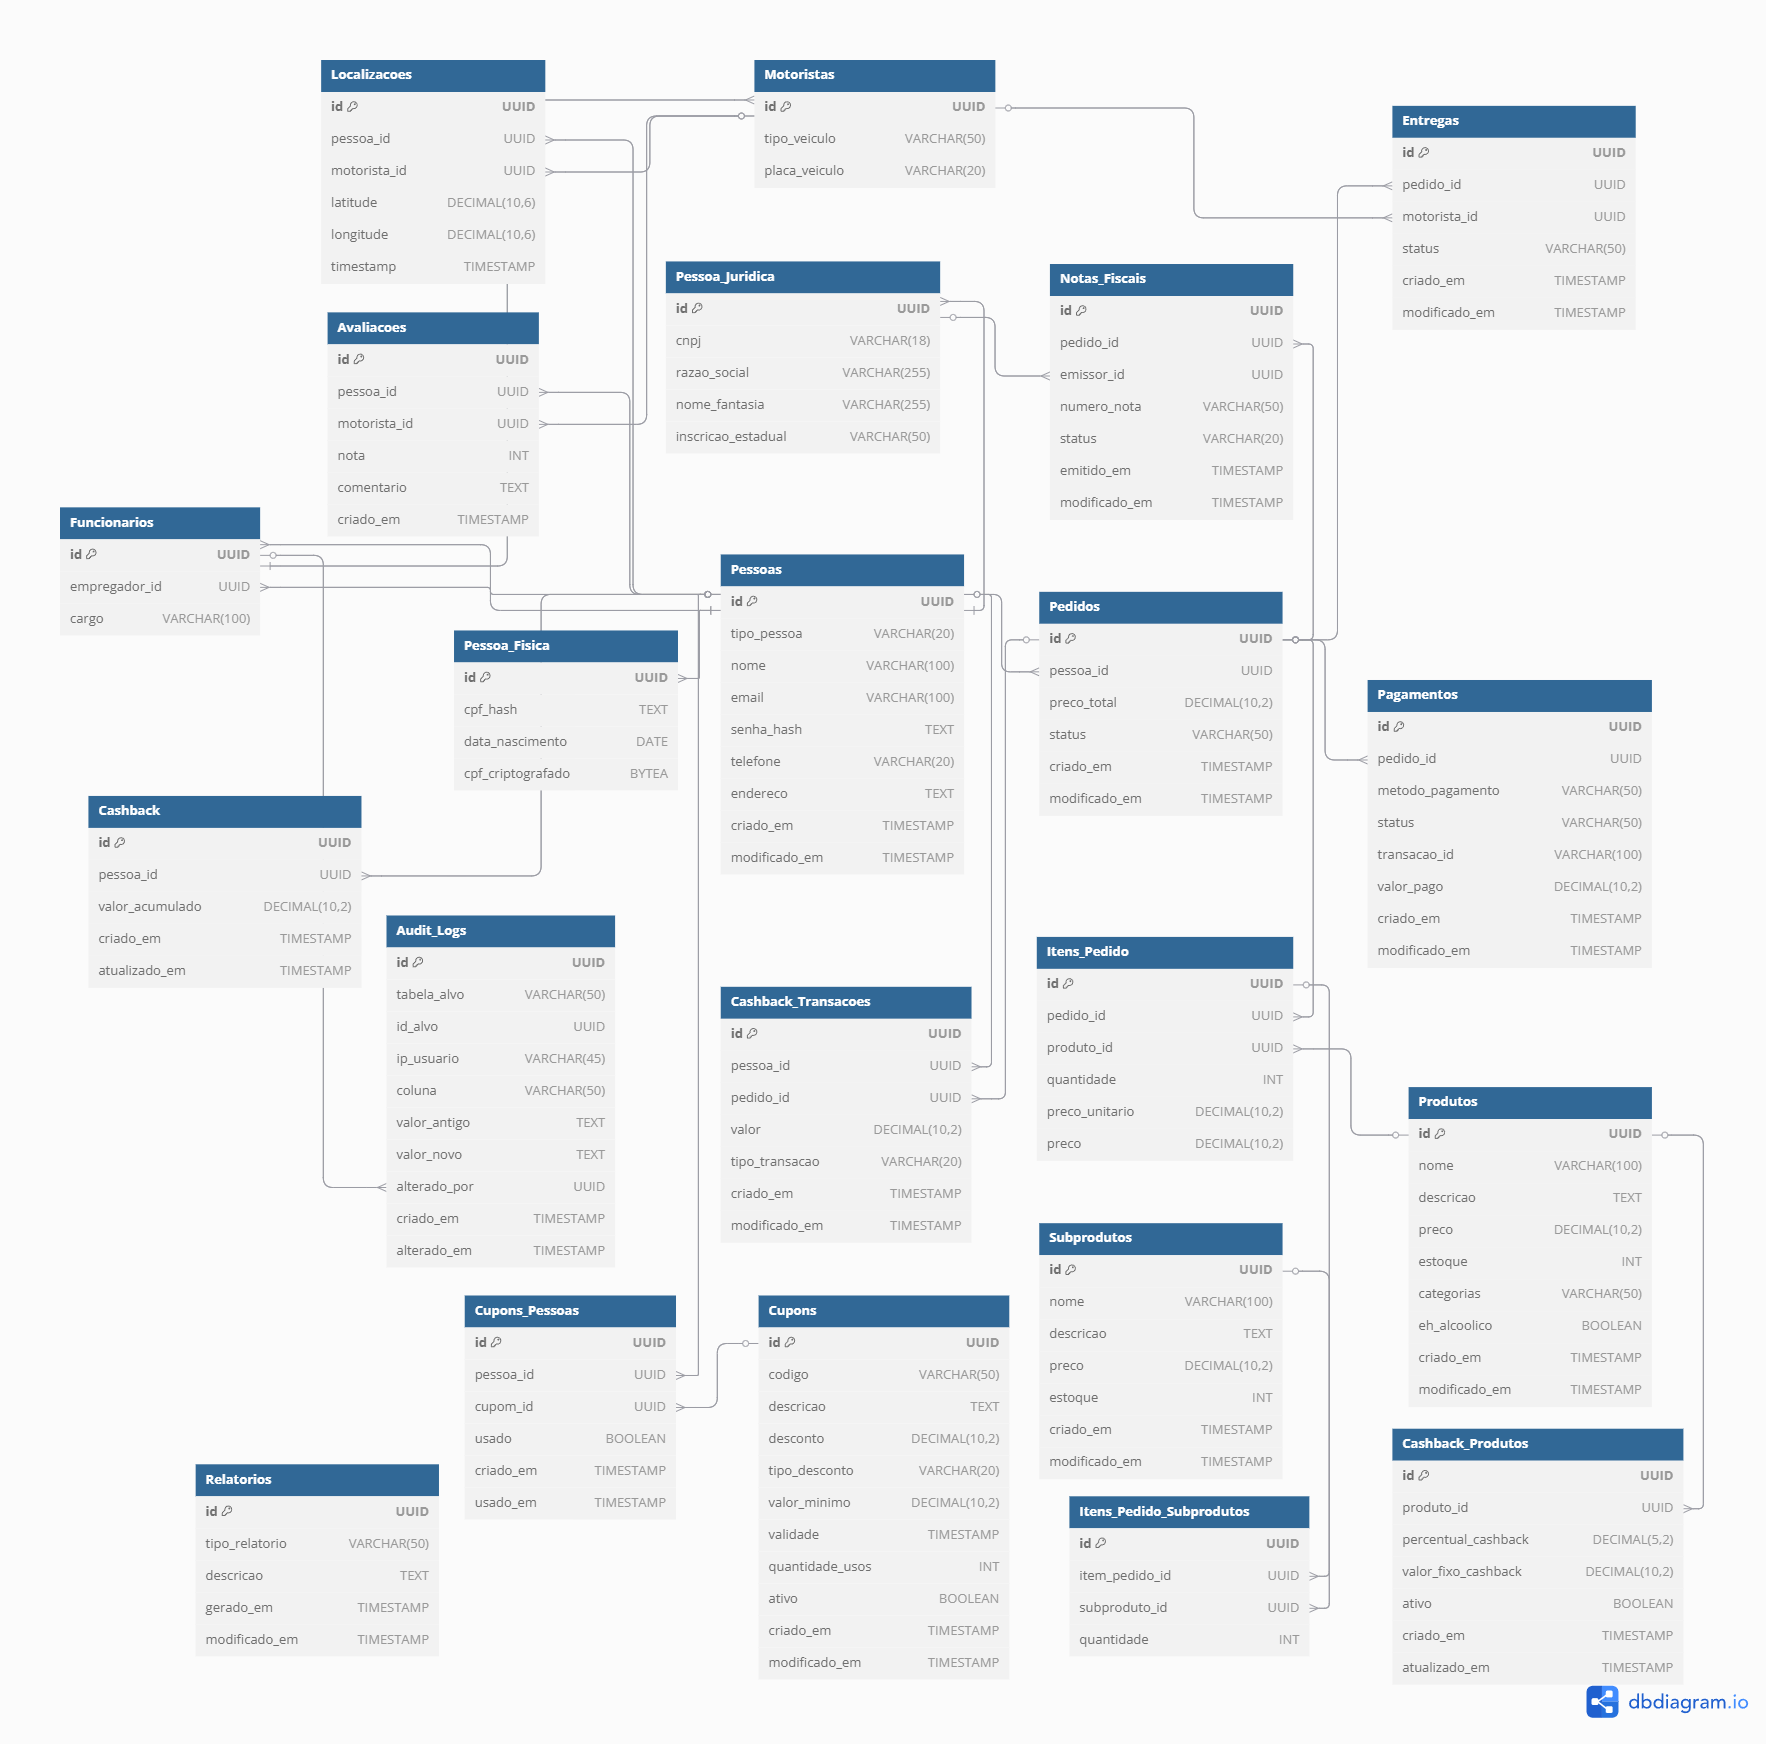
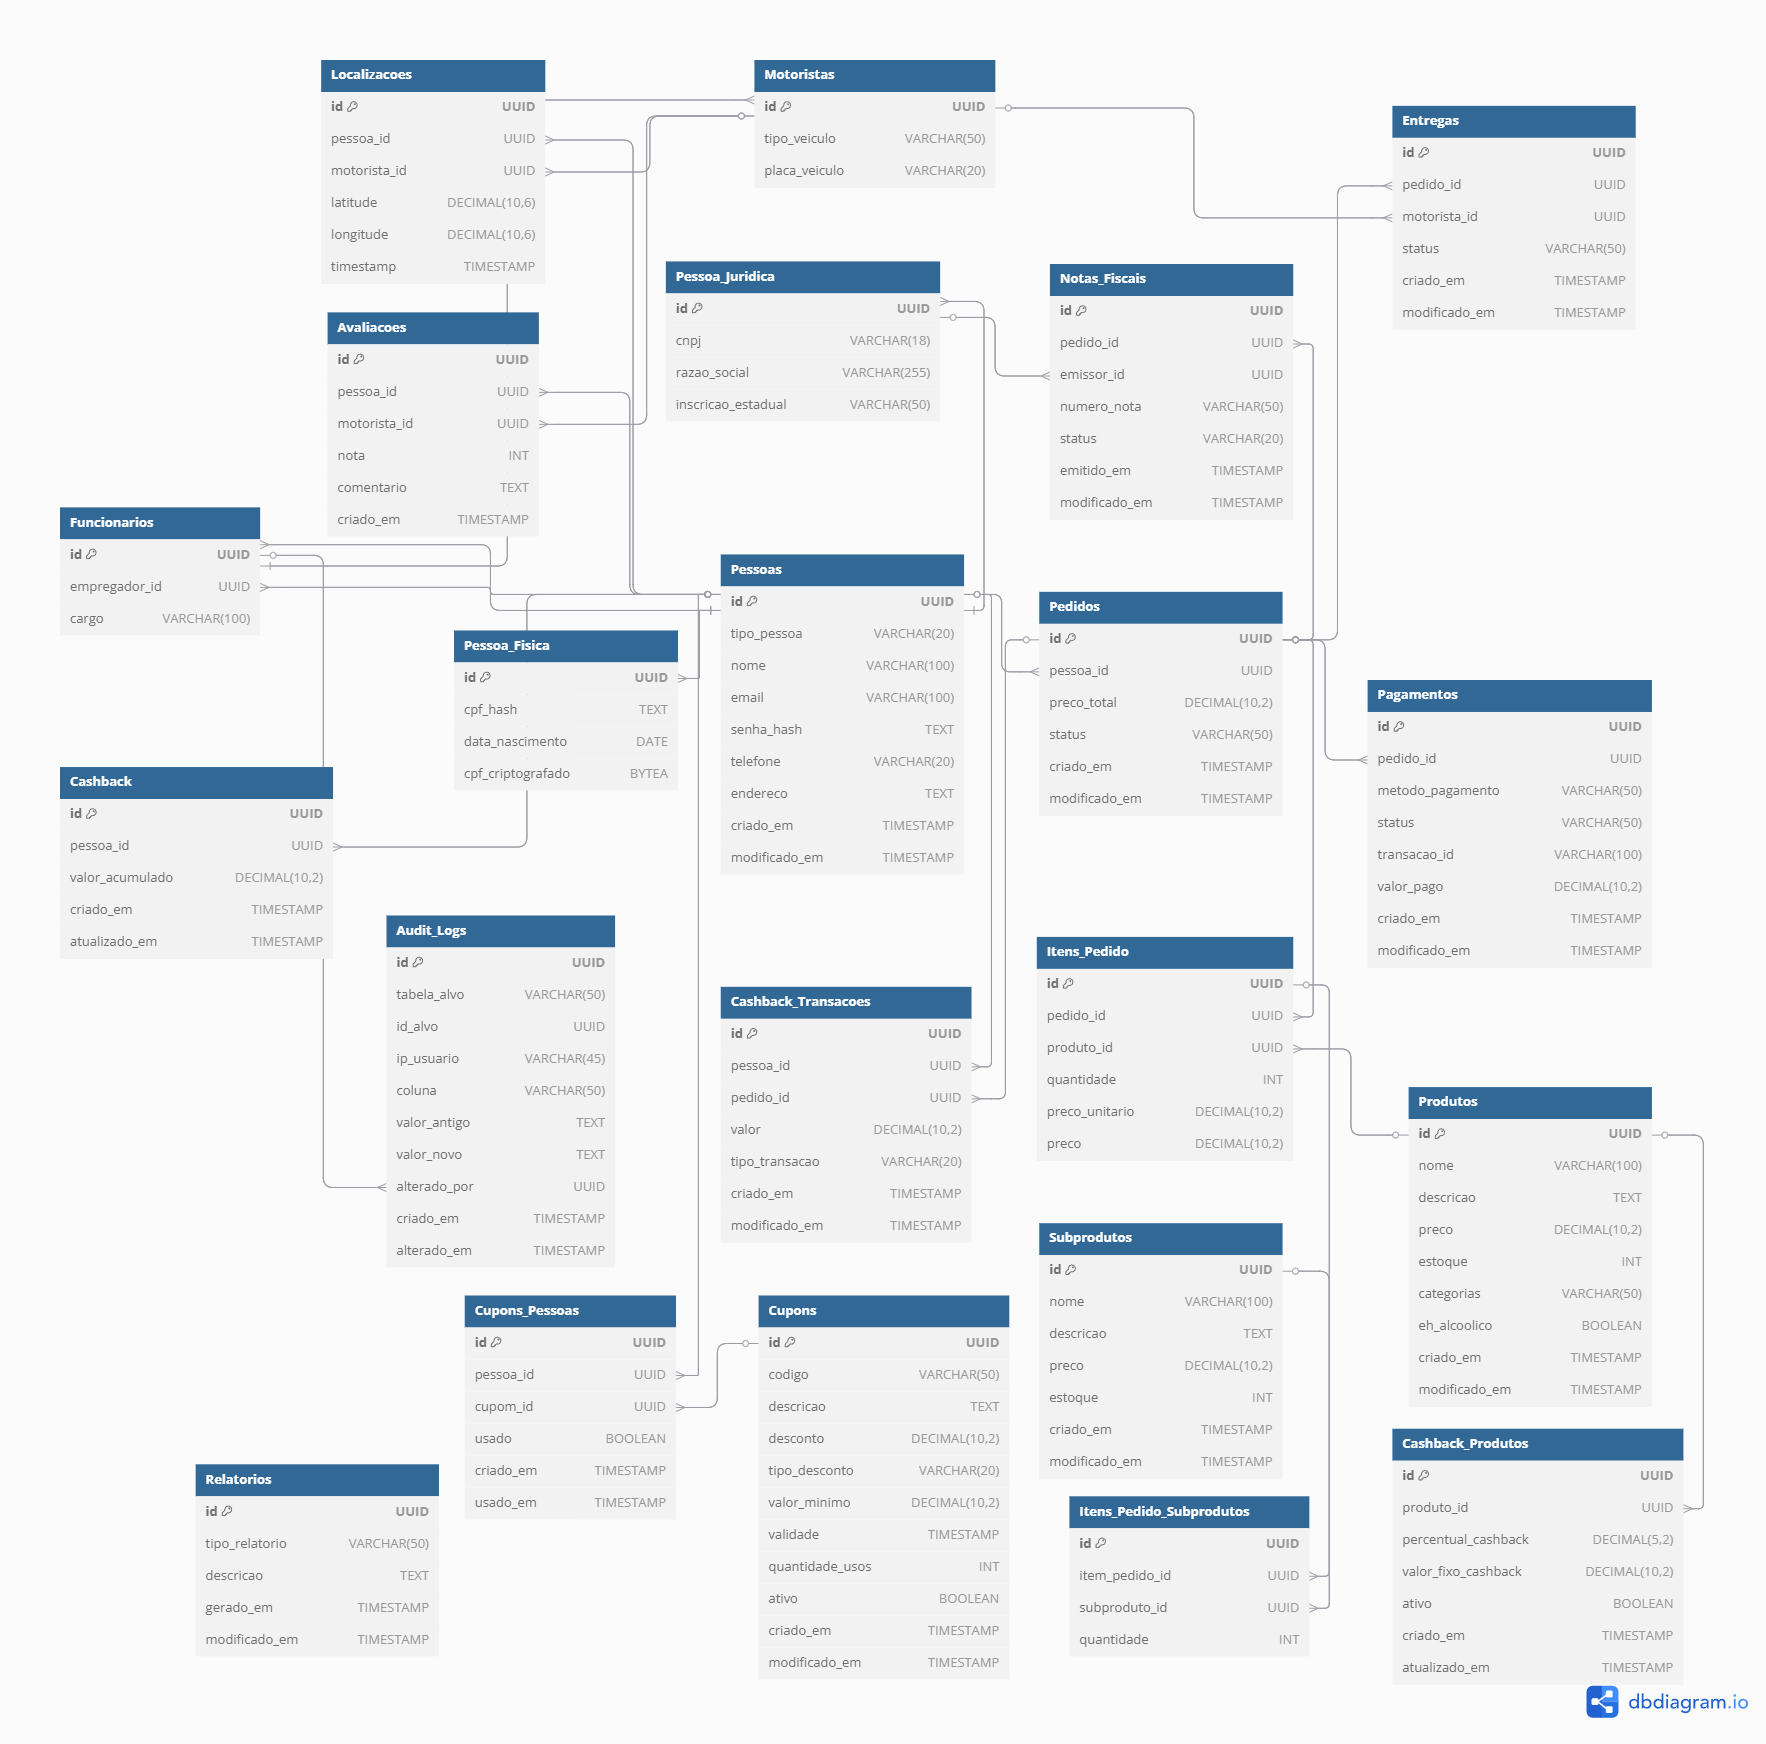
iniciando os testes

Changed region(s): [[0.0311, 0.4335, 0.218, 0.5573]]

diff --git a/backend/src/controllers/pessoaFisicaController.js b/backend/src/controllers/pessoaFisicaController.js
@@ -6,22 +6,19 @@ exports.create = async (req, res) => {
     try {
         console.log("Recebendo requisição para criar Pessoa Física:", req.body);
 
-        const { nome, email, senha_hash, telefone, endereco, cpf, data_nascimento } = req.body;
+        const { nome, email, senha_hash, telefone, endereco, cpf_hash, data_nascimento } = req.body;
 
-        if (!nome || !email || !senha_hash || !telefone || !endereco || !cpf || !data_nascimento) {
+        if (!nome || !email || !senha_hash || !telefone || !endereco || !cpf_hash || !data_nascimento) {
             return res.status(400).json({ error: 'Todos os campos são obrigatórios' });
         }
 
-        // Verificar se já existe uma pessoa com mesmo e-mail, telefone ou CPF
+        // Verificar se já existe uma pessoa com mesmo e-mail ou telefone
         const pessoaExistente = await Pessoa.findOne({ where: { [Op.or]: [{ email }, { telefone }] } });
         if (pessoaExistente) return res.status(400).json({ error: 'E-mail ou telefone já cadastrado' });
 
-        const cpfExistente = await PessoaFisica.findOne({ where: { cpf } });
-        if (cpfExistente) return res.status(400).json({ error: 'CPF já cadastrado' });
-
         // Criar Pessoa e Pessoa Física
         const pessoa = await Pessoa.create({ nome, email, senha_hash, telefone, endereco, tipo_pessoa: 'fisica' });
-        const pessoaFisica = await PessoaFisica.create({ id: pessoa.id, cpf, data_nascimento });
+        const pessoaFisica = await PessoaFisica.create({ id: pessoa.id, cpf_hash, data_nascimento });
 
         res.status(201).json({ ...pessoa.toJSON(), ...pessoaFisica.toJSON() });
     } catch (error) {
@@ -33,7 +30,7 @@ exports.create = async (req, res) => {
 // 🔹 Buscar Pessoas Físicas com Filtros Dinâmicos
 exports.getAll = async (req, res) => {
     try {
-        const { nome, email, telefone, cpf, data_nascimento, limite, ordenacao } = req.query;
+        const { nome, email, telefone, cpf_hash, data_nascimento, limite, ordenacao } = req.query;
 
         let wherePessoa = {};
         let wherePessoaFisica = {};
@@ -41,7 +38,7 @@ exports.getAll = async (req, res) => {
         if (nome) wherePessoa.nome = { [Op.iLike]: `%${nome}%` };
         if (email) wherePessoa.email = { [Op.iLike]: `%${email}%` };
         if (telefone) wherePessoa.telefone = telefone;
-        if (cpf) wherePessoaFisica.cpf = cpf;
+        if (cpf_hash) wherePessoaFisica.cpf = cpf_hash;
         if (data_nascimento) wherePessoaFisica.data_nascimento = data_nascimento;
 
         const pessoasFisicas = await PessoaFisica.findAll({
@@ -51,7 +48,7 @@ exports.getAll = async (req, res) => {
                 as: 'pessoa',
                 where: wherePessoa
             },
-            order: [['criado_em', ordenacao === 'asc' ? 'ASC' : 'DESC']],
+            order: [['id', ordenacao === 'asc' ? 'ASC' : 'DESC']],
             limit: limite ? parseInt(limite) : null
         });
 
@@ -88,7 +85,7 @@ exports.getById = async (req, res) => {
 exports.update = async (req, res) => {
     try {
         const { id } = req.params;
-        const { nome, email, senha_hash, telefone, endereco, cpf, data_nascimento } = req.body;
+        const { nome, email, senha_hash, telefone, endereco, cpf_hash, data_nascimento } = req.body;
 
         if (!id.match(/^[0-9a-fA-F-]{36}$/)) {
             return res.status(400).json({ error: 'ID inválido' });
@@ -99,7 +96,7 @@ exports.update = async (req, res) => {
             return res.status(404).json({ error: 'Pessoa Física não encontrada' });
         }
 
-        // Verificar se o novo e-mail, telefone ou CPF já pertence a outra pessoa
+        // Verificar se o novo e-mail ou telefone já pertence a outra pessoa
         if (email || telefone) {
             const pessoaExistente = await Pessoa.findOne({
                 where: {
@@ -111,20 +108,9 @@ exports.update = async (req, res) => {
             if (pessoaExistente) return res.status(400).json({ error: 'E-mail ou telefone já está em uso por outra pessoa' });
         }
 
-        if (cpf) {
-            const cpfExistente = await PessoaFisica.findOne({
-                where: {
-                    cpf,
-                    id: { [Op.ne]: id }
-                }
-            });
-
-            if (cpfExistente) return res.status(400).json({ error: 'CPF já está em uso por outra pessoa' });
-        }
-
         // Atualizar os dados
         await pessoaFisica.pessoa.update({ nome, email, senha_hash, telefone, endereco });
-        await pessoaFisica.update({ cpf, data_nascimento });
+        await pessoaFisica.update({ cpf_hash, data_nascimento });
 
         res.json({ ...pessoaFisica.pessoa.toJSON(), ...pessoaFisica.toJSON() });
     } catch (error) {

diff --git a/backend/src/controllers/pessoaJuridicaController.js b/backend/src/controllers/pessoaJuridicaController.js
@@ -6,7 +6,7 @@ exports.create = async (req, res) => {
     try {
         console.log("Recebendo requisição para criar Pessoa Jurídica:", req.body);
 
-        const { nome, email, senha_hash, telefone, endereco, cnpj, razao_social, nome_fantasia, inscricao_estadual, eh_empresa } = req.body;
+        const { nome, email, senha_hash, telefone, endereco, cnpj, razao_social, inscricao_estadual } = req.body;
 
         if (!nome || !email || !senha_hash || !telefone || !endereco || !cnpj || !razao_social) {
             return res.status(400).json({ error: 'Nome, e-mail, senha, telefone, endereço, CNPJ e razão social são obrigatórios' });
@@ -21,7 +21,7 @@ exports.create = async (req, res) => {
 
         // Criar Pessoa e Pessoa Jurídica
         const pessoa = await Pessoa.create({ nome, email, senha_hash, telefone, endereco, tipo_pessoa: 'juridica' });
-        const pessoaJuridica = await PessoaJuridica.create({ id: pessoa.id, cnpj, razao_social, nome_fantasia, inscricao_estadual, eh_empresa });
+        const pessoaJuridica = await PessoaJuridica.create({ id: pessoa.id, cnpj, razao_social, inscricao_estadual });
 
         res.status(201).json({ ...pessoa.toJSON(), ...pessoaJuridica.toJSON() });
     } catch (error) {
@@ -43,7 +43,6 @@ exports.getAll = async (req, res) => {
         if (telefone) wherePessoa.telefone = telefone;
         if (cnpj) wherePessoaJuridica.cnpj = cnpj;
         if (razao_social) wherePessoaJuridica.razao_social = { [Op.iLike]: `%${razao_social}%` };
-        if (nome_fantasia) wherePessoaJuridica.nome_fantasia = { [Op.iLike]: `%${nome_fantasia}%` };
 
         const pessoasJuridicas = await PessoaJuridica.findAll({
             where: wherePessoaJuridica,
@@ -52,7 +51,7 @@ exports.getAll = async (req, res) => {
                 as: 'pessoa',
                 where: wherePessoa
             },
-            order: [['criado_em', ordenacao === 'asc' ? 'ASC' : 'DESC']],
+            order: [['id', ordenacao === 'asc' ? 'ASC' : 'DESC']],
             limit: limite ? parseInt(limite) : null
         });
 
@@ -89,7 +88,7 @@ exports.getById = async (req, res) => {
 exports.update = async (req, res) => {
     try {
         const { id } = req.params;
-        const { nome, email, senha_hash, telefone, endereco, cnpj, razao_social, nome_fantasia, inscricao_estadual, eh_empresa } = req.body;
+        const { nome, email, senha_hash, telefone, endereco, cnpj, razao_social, inscricao_estadual } = req.body;
 
         if (!id.match(/^[0-9a-fA-F-]{36}$/)) {
             return res.status(400).json({ error: 'ID inválido' });
@@ -126,7 +125,7 @@ exports.update = async (req, res) => {
 
         // Atualizar os dados
         await pessoaJuridica.pessoa.update({ nome, email, senha_hash, telefone, endereco });
-        await pessoaJuridica.update({ cnpj, razao_social, nome_fantasia, inscricao_estadual, eh_empresa });
+        await pessoaJuridica.update({ cnpj, razao_social, inscricao_estadual });
 
         res.json({ ...pessoaJuridica.pessoa.toJSON(), ...pessoaJuridica.toJSON() });
     } catch (error) {

diff --git a/backend/src/controllers/funcionarioController.js b/backend/src/controllers/funcionarioController.js
@@ -6,14 +6,14 @@ exports.createFuncionario = async (req, res) => {
     try {
         console.log("Recebendo requisição para criar funcionário:", req.body);
 
-        const { pessoa_id, empregador_id, cargo } = req.body;
+        const { id, empregador_id, cargo } = req.body;
 
-        if (!pessoa_id || !empregador_id || !cargo) {
+        if (!id || !empregador_id || !cargo) {
             return res.status(400).json({ error: 'Todos os campos são obrigatórios' });
         }
 
         // Verificar se a pessoa física existe
-        const pessoaFisica = await PessoaFisica.findByPk(pessoa_id);
+        const pessoaFisica = await PessoaFisica.findByPk(id);
         if (!pessoaFisica) {
             return res.status(404).json({ error: 'Pessoa Física não encontrada' });
         }
@@ -24,7 +24,7 @@ exports.createFuncionario = async (req, res) => {
             return res.status(404).json({ error: 'Empregador não encontrado' });
         }
 
-        const novoFuncionario = await Funcionario.create({ id: pessoa_id, empregador_id, cargo });
+        const novoFuncionario = await Funcionario.create({ id: id, empregador_id, cargo });
 
         return res.status(201).json(novoFuncionario);
     } catch (error) {

diff --git a/backend/src/models/funcionario.js b/backend/src/models/funcionario.js
@@ -9,6 +9,11 @@ class Funcionario extends Model {
           primaryKey: true,
           references: { model: 'pessoaFisica', key: 'id' }
         },
+        empregador_id: {
+          type: DataTypes.UUID,
+          allowNull: false,
+          references: { model: 'pessoa', key: 'id' }
+        },
         cargo: {
           type: DataTypes.STRING,
           allowNull: false
@@ -18,11 +23,13 @@ class Funcionario extends Model {
         sequelize,
         modelName: 'Funcionario',
         tableName: 'funcionarios',
+        timestamps: false
       }
     );
   }
 
   static associate(models) {
+    this.belongsTo(models.PessoaFisica, { foreignKey: 'id', as: 'pessoaFisica' }),
     this.belongsTo(models.Pessoa, { foreignKey: 'empregador_id', as: 'empregador' });
   }
 }

diff --git a/backend/src/models/pessoaFisica.js b/backend/src/models/pessoaFisica.js
@@ -9,10 +9,9 @@ class PessoaFisica extends Model {
           primaryKey: true,
           references: {model: 'pessoa', key: 'id'}
         },
-        cpf: {
+        cpf_hash: {
           type: DataTypes.STRING,
-          allowNull: false,
-          unique: true
+          allowNull: false
         },
         data_nascimento: {
           type: DataTypes.DATEONLY,
@@ -22,7 +21,8 @@ class PessoaFisica extends Model {
       {
         sequelize,
         modelName: 'PessoaFisica',
-        tableName: 'pessoa_fisica'
+        tableName: 'pessoa_fisica',
+        timestamps: false
       }
     );
   }

diff --git a/backend/src/models/pessoaJuridica.js b/backend/src/models/pessoaJuridica.js
@@ -18,9 +18,6 @@ class PessoaJuridica extends Model {
           type: DataTypes.STRING,
           allowNull: false
         },
-        nome_fantasia: {
-          type: DataTypes.STRING
-        },
         inscricao_estadual: {
           type: DataTypes.STRING
         },
@@ -28,7 +25,8 @@ class PessoaJuridica extends Model {
       {
         sequelize,
         modelName: 'PessoaJuridica',
-        tableName: 'pessoa_juridica'
+        tableName: 'pessoa_juridica',
+        timestamps: false
       }
     );
   }

diff --git a/backend/src/app.js b/backend/src/app.js
@@ -41,8 +41,8 @@ app.use('/motoristas', motoristaRoutes);
 app.use('/notas-fiscais', notaFiscalRoutes);
 app.use('/pagamentos', pagamentoRoutes);
 app.use('/pessoas', pessoaRoutes);
-app.use('/pessoas/fisica', pessoaFisicaRoutes);
-app.use('/pessoas/juridica', pessoaJuridicaRoutes);
+app.use('/pessoas-fisica', pessoaFisicaRoutes);
+app.use('/pessoas-juridica', pessoaJuridicaRoutes);
 app.use('/pedidos', pedidoRoutes);
 app.use('/produtos', produtoRoutes);
 app.use('/relatorios', relatorioRoutes);

diff --git a/backend/src/controllers/pessoaController.js b/backend/src/controllers/pessoaController.js
@@ -44,7 +44,7 @@ exports.getPessoas = async (req, res) => {
 
         const pessoas = await Pessoa.findAll({
             where,
-            order: [['criado_em', ordenacao === 'asc' ? 'ASC' : 'DESC']],
+            order: [['id', ordenacao === 'asc' ? 'ASC' : 'DESC']],
             limit: limite ? parseInt(limite) : null
         });
 

diff --git a/backend/src/models/motorista.js b/backend/src/models/motorista.js
@@ -20,6 +20,7 @@ class Motorista extends Model {
         sequelize,
         modelName: 'Motorista',
         tableName: 'motoristas',
+        timestamps: false
       }
     );
   }
